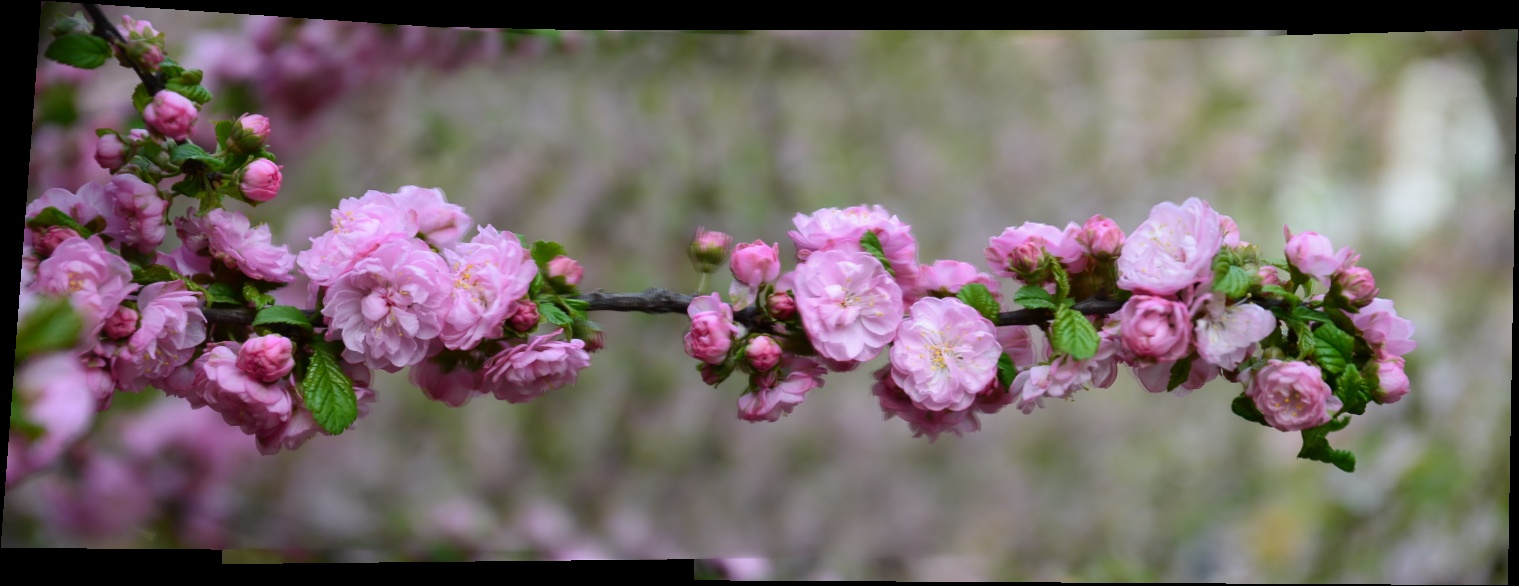
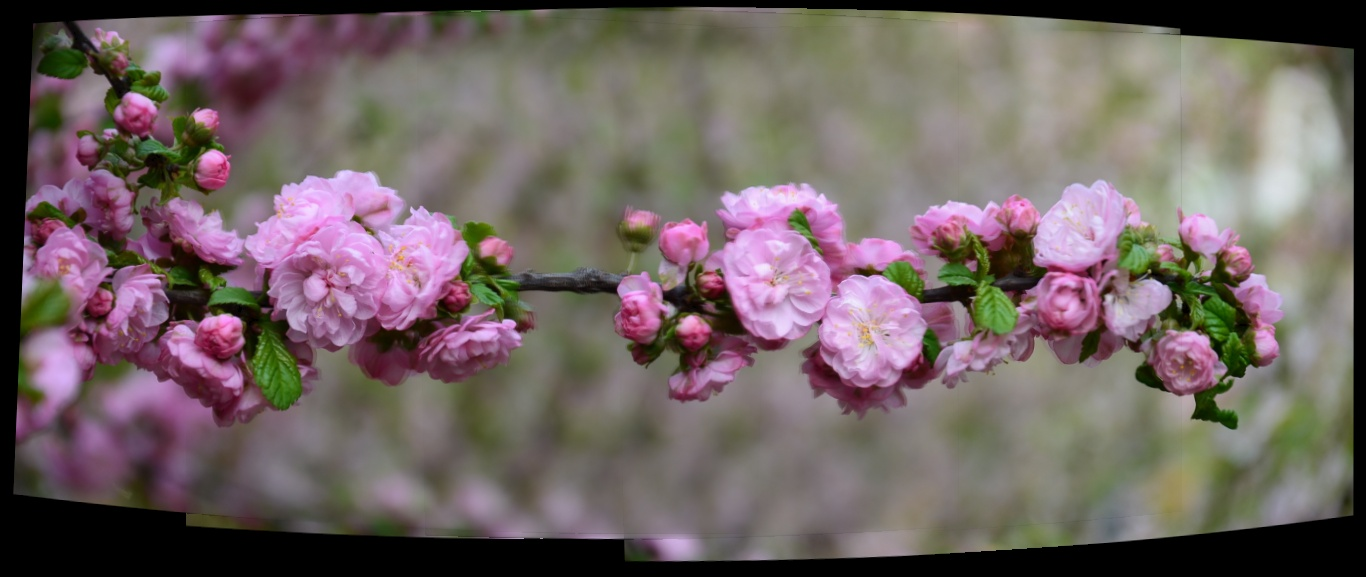
Update test images, and added flag for --no-cylindrical (#11)
* feat: vectorize SIFT keypoint orientation and descriptor generation, add focal length parameter, and improve blending to handle cylindrical warping borders.

* Update mountain, tree, and flower example panorama images.

* feat: Add `use_cylindrical` parameter to control cylindrical warping.

diff --git a/panostitch.py b/panostitch.py
@@ -36,18 +36,42 @@ Each module has TODO comments indicating what needs to be replaced with custom i
 
 import cv2
 import sys
+import argparse
 from pathlib import Path
 
 from src.stitcher import PanoStitch
 
 
 if __name__ == "__main__":
-    if len(sys.argv) < 2:
-        print("Usage: python panostitch.py <image1> <image2> [image3] ...")
-        print("   or: python panostitch.py <directory>")
-        sys.exit(1)
+    parser = argparse.ArgumentParser(
+        description="PanoStitch - Panoramic Image Stitching Pipeline"
+    )
+    parser.add_argument(
+        "input",
+        nargs="+",
+        help="Image files or directory containing images"
+    )
+    parser.add_argument(
+        "--no-cylindrical",
+        action="store_true",
+        help="Disable cylindrical warping (use standard homography)"
+    )
+    parser.add_argument(
+        "--focal-length", "-f",
+        type=float,
+        default=1200.0,
+        help="Focal length for cylindrical warping (default: 1200.0)"
+    )
+    parser.add_argument(
+        "--resize",
+        type=int,
+        default=800,
+        help="Resize images to this max dimension (default: 800)"
+    )
+    
+    args = parser.parse_args()
 
-    input_path = Path(sys.argv[1])
+    input_path = Path(args.input[0])
 
     # Check if input is directory or individual files
     if input_path.is_dir():
@@ -56,7 +80,7 @@ if __name__ == "__main__":
             str(f) for f in input_path.iterdir() if f.suffix.lower() in valid_extensions
         ]
     else:
-        image_paths = sys.argv[1:]
+        image_paths = args.input
 
     if not image_paths:
         print("Error: No valid images found!")
@@ -66,13 +90,14 @@ if __name__ == "__main__":
 
     # Create stitcher
     stitcher = PanoStitch(
-        resize_size=800,  # Resize images to reduce memory usage and canvas size
+        resize_size=args.resize,
         ratio=0.75,
         gain_sigma_n=10.0,
         gain_sigma_g=0.1,
-        use_harris=False,  # Use Harris corner detection instead of SIFT
+        use_harris=False,
         verbose=True,
-        focal_length=1200.0,  # Focal length for cylindrical warping
+        focal_length=args.focal_length,
+        use_cylindrical=not args.no_cylindrical,
     )
 
     # Stitch images and get source directory

diff --git a/src/stitcher.py b/src/stitcher.py
@@ -27,6 +27,7 @@ class PanoStitch:
         use_harris: bool = False,
         verbose: bool = True,
         focal_length: float = 700.0,
+        use_cylindrical: bool = True,
     ):
         """
         Initialize PanoStitch.
@@ -39,6 +40,7 @@ class PanoStitch:
             use_harris: Whether to use Harris corner detection (True) or SIFT (False)
             verbose: Whether to print progress
             focal_length: Focal length for cylindrical warping (default 700.0 pixels)
+            use_cylindrical: Whether to apply cylindrical warping (default True)
         """
         self.resize_size = resize_size
         self.ratio = ratio
@@ -47,6 +49,7 @@ class PanoStitch:
         self.use_harris = use_harris
         self.verbose = verbose
         self.focal_length = focal_length
+        self.use_cylindrical = use_cylindrical
 
         if verbose:
             logging.basicConfig(level=logging.INFO, format="%(message)s")
@@ -74,11 +77,12 @@ class PanoStitch:
         logging.info(f"Loading {len(image_paths)} images...")
         images = [Image(path, self.resize_size) for path in image_paths]
 
-        # Apply cylindrical warping before feature detection
-        from .warping import cylindrical_warp
-        logging.info(f"Applying cylindrical warping (focal_length={self.focal_length})...")
-        for image in images:
-            image.image = cylindrical_warp(image.image, self.focal_length)
+        # Apply cylindrical warping before feature detection (optional)
+        if self.use_cylindrical:
+            from .warping import cylindrical_warp
+            logging.info(f"Applying cylindrical warping (focal_length={self.focal_length})...")
+            for image in images:
+                image.image = cylindrical_warp(image.image, self.focal_length)
 
         # Module 2 & 3: Compute features
         detector_name = "Harris" if self.use_harris else "SIFT"
